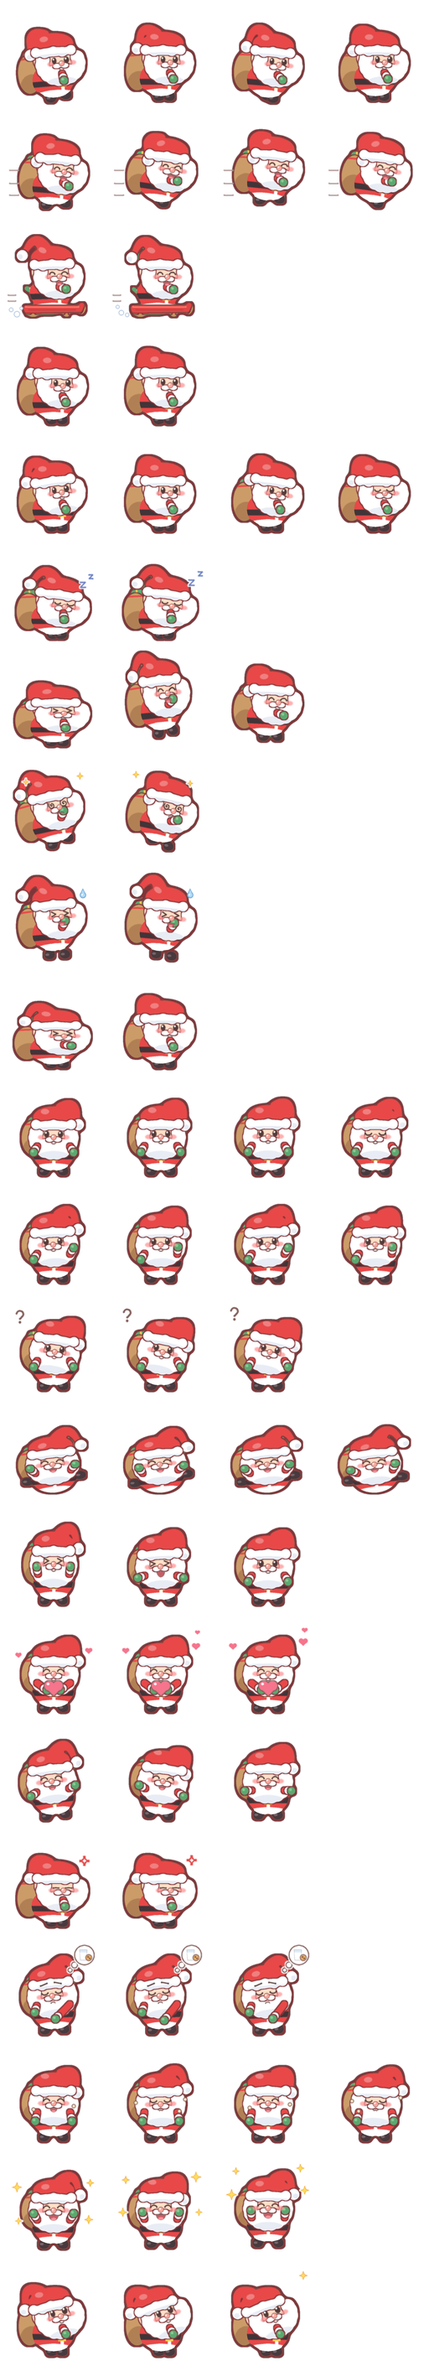
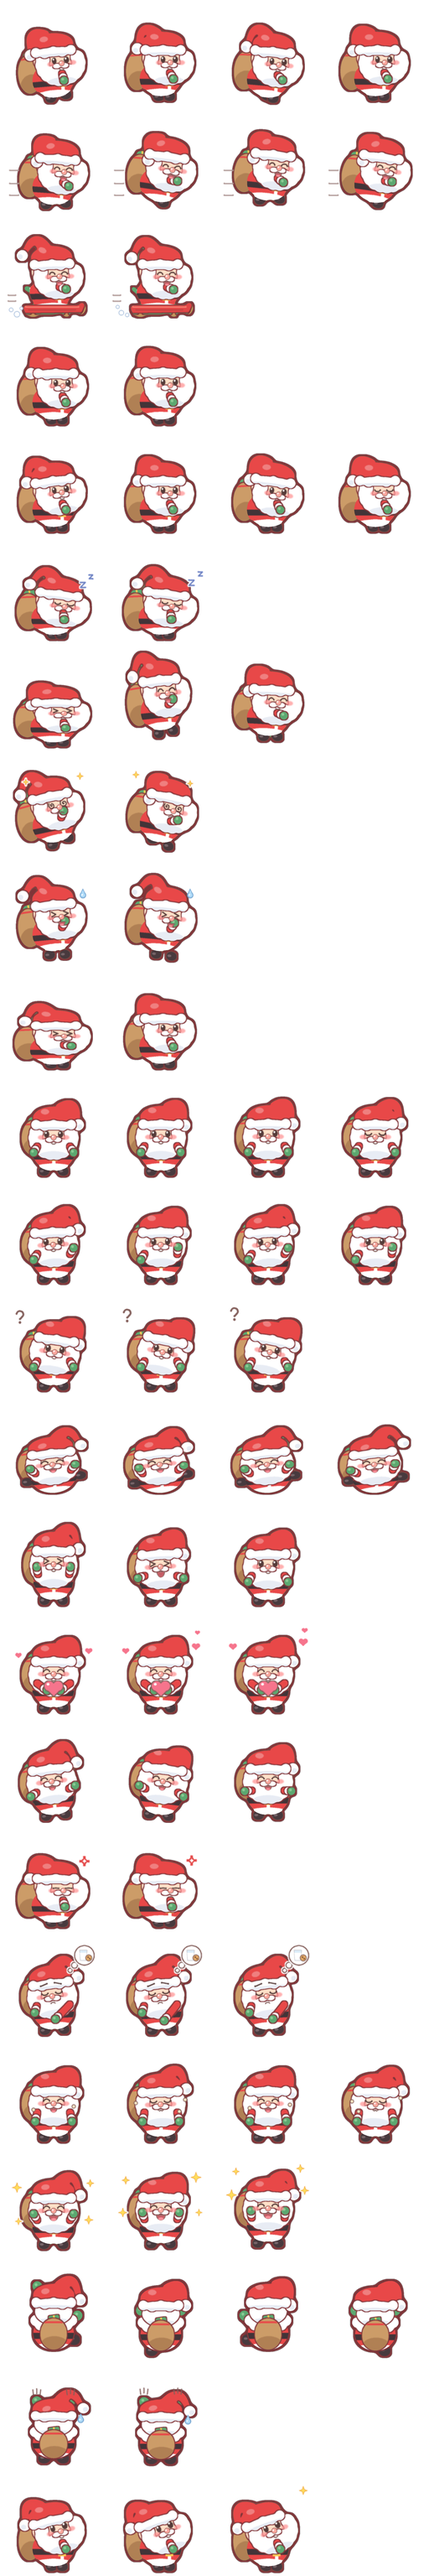
feat(art): Santa climbs walls like the cat — back view with sack, belt and pom-pom
Claude-Session: https://claude.ai/code/session_01QTKFeeLBUNBZhj6R6jJCZF

diff --git a/tools/draw_christmas.py b/tools/draw_christmas.py
@@ -12,6 +12,7 @@
 산타: 큰 머리 꼬마 산타 — 빨간 옷·모자(흰 방울), 복슬 흰 수염, 발그레 볼, 동글 배, 검은 허리띠 + 금 버클, 작은 장화.
       단계: 아기 = 모자 + 작은 수염 뭉치 (몸은 동글 빨간 콩) → 유아 장갑 → 어린이 허리띠 → 청소년 콧수염 + 버클 → 어른 큰 배 + 선물 자루.
       roll(구르기) 대신 썰매를 타고 미끄러진다 (옆모습, 방울·목도리 펄럭, 썰매 날 뒤로 눈가루) — pet.json roll에 spin이 없어 앱이 돌리지 않는다.
+      고양이처럼 벽을 탄다: 뒷모습 climb·slide (빨간 등·허리띠, 모자 + 방울, 수염 끝만 살짝, 어른은 등에 자루, 장화는 몸 뒤에서 번갈아 빼꼼).
 eat에는 밥그릇이 없다 (앱의 소품 창이 그릇을 띄운다).
 """
 
@@ -641,10 +642,79 @@ def sa_lookup(sp, i):
     return santa(sp, side=True, head_rot=dp.lookup_tilt(i), pom=-6, eyes="up", fx=dp.lookup_fx(i, 112, 14))
 
 
+# ---- 뒷모습 (벽 타기, 고양이처럼) — 다리는 몸 뒤, 장갑 끝만 머리 옆·위로 빼꼼. 보이는 건 빨간 등·허리띠·털 단, 모자 + 방울, 수염 끝 ----
+SA_BACK_FOOT = {"side": (1.02, 0.42), "low": (0.46, 1.02), "tuck": (0.32, 0.2)}  # 몸 (brx, bry) 기준 장화 자리: 옆으로 디딤 · 아래로 빼꼼 · 완전히 숨음
+
+
+def santa_back(reach, feet, *, sq=(1.0, 1.0), dy=0.0, pom=0.0, scratch=None, sweat=None):
+    """산타 뒷모습. reach: (왼, 오) 0 머리 옆 낮게 … 1 머리 위로 쭉 · feet: (왼, 오) SA_BACK_FOOT 키."""
+    st = _sa()
+    lvl = _ST["lvl"]
+    hr, brx, bry = st["hr"], st["brx"], st["bry"]
+    cx = 64.0
+    bottom = SA_FLOOR - 1 + dy
+    cy_b, hy = _layout(st, bottom)
+    parts, ops = [], []
+    with xf(sx=sq[0], sy=sq[1], pivot=(cx, bottom)):
+        for s_, at in zip((-1, 1), feet):  # 장화는 몸 뒤 — 몸 밖으로 나온 만큼만 보인다
+            ox, oy = SA_BACK_FOOT[at]
+            x, y = cx + s_ * brx * ox, cy_b + bry * oy
+            parts.append(dp.Part([E(x - 8, y - 7, x + 8, y + 7)], BOOT, [([E(x - 5, y - 3, x, y)], BOOT_LIGHT)], outline=True, grow=0))
+        for s_, r in zip((-1, 1), reach):  # 소매는 머리 뒤에 숨고 장갑 끝만 빼꼼
+            tx = cx + s_ * hr * (1.3 - 0.5 * r)
+            ty = hy + hr * (0.42 - 0.95 * r if r <= 0.62 else -0.17 - 2.7 * (r - 0.62))  # 머리 옆 낮게 → 모자 테 아래 → 모자 위로 쭉
+            parts.append(dp.Part([L([(cx + s_ * hr * 0.62, hy + hr * 0.5), (tx, ty)], 9.5)], SUIT, outline=True, grow=0))
+            parts.append(dp.Part([C(tx, ty, 6.6)], MITT if lvl else SKIN, [([C(tx - 1.6, ty - 1.8, 1.8)], MITT_LIGHT if lvl else WHITE)], outline=True, grow=0))
+            if scratch is not None:
+                for j, d in enumerate((-4, 0, 4)):
+                    y0 = ty - 9 - (j % 2) * 1.5 - scratch * 2
+                    ops.append(([L([(tx + d * 1.1, y0), (tx + d * 1.3, y0 - 7)], 1.5)], LINE, 1.0, 0, 0))
+        # 등: 빨간 옷 + 아래 흰 털 단 + 허리띠 (버클은 앞에 있어 안 보인다), 등솔기
+        marks = [([E(cx - brx * 1.3, cy_b + bry * 0.6, cx + brx * 1.3, cy_b + bry * 1.7)], FUR),
+                 ([E(cx - brx * 1.3, cy_b + bry * 1.05, cx + brx * 1.3, cy_b + bry * 1.7)], FUR_SHADE),
+                 ([E(cx + brx * 0.3, cy_b - bry * 0.7, cx + brx * 0.7, cy_b - bry * 0.35)], mix(SUIT, WHITE, 0.3))]
+        if lvl >= 1:
+            marks.append(([L([(cx, cy_b - bry), (cx, cy_b + bry * 0.62)], 1.6)], SUIT_SHADE))
+        if st["belt"]:
+            marks.append(([T((cx - brx * 1.1, cy_b + bry * 0.02), (cx + brx * 1.1, cy_b + bry * 0.02),
+                             (cx + brx * 1.1, cy_b + bry * 0.36), (cx - brx * 1.1, cy_b + bry * 0.36))], BELT))
+        parts.append(dp.Part([E(cx - brx, cy_b - bry, cx + brx, cy_b + bry)], SUIT, marks, outline=True, grow=0))
+        # 뒤통수: 볼 옆으로 수염 끝이 살짝, 그 위에 흰 머리칼 + 모자
+        k = st["beard"]
+        tips = [C(cx + s_ * hr * 0.9, hy + 0.42 * hr, hr * (0.14 + 0.1 * k)) for s_ in (-1, 1)]
+        tips += [C(cx + s_ * hr * 0.66, hy + 0.56 * hr + 2 * k, hr * (0.14 + 0.1 * k)) for s_ in (-1, 1)]
+        parts.append(dp.Part(tips, FUR, outline=True, grow=0))
+        nape = [E(cx - hr * 0.9, hy - hr * 0.6, cx + hr * 0.9, hy + hr * 0.6)]
+        parts.append(dp.Part(nape, FUR if lvl >= 1 else SKIN, [([E(cx - hr, hy + hr * 0.3, cx + hr, hy + hr * 0.8)], FUR_SHADE if lvl >= 1 else mix(SKIN, CHEEK_RED, 0.2))], outline=True, grow=0))
+        parts += _hat_parts(cx, hy, hr, False, pom, lvl)
+        if st["sack"]:  # 어른: 등에 멘 선물 자루 — 등 한가운데, 입구로 선물 상자가 빼꼼
+            sx0, sy0, sx1, sy1 = cx - 18, cy_b - bry * 0.82, cx + 18, cy_b + bry * 0.98
+            gift = dp.Part([T((cx - 7, sy0 - 3), (cx + 7, sy0 - 5), (cx + 8, sy0 + 7), (cx - 6, sy0 + 8))], GIFT,
+                           [([L([(cx, sy0 - 4), (cx + 1, sy0 + 8)], 2.2)], GIFT_RIBBON)], outline=True, grow=0)
+            bag = dp.Part([E(sx0, sy0, sx1, sy1)], SACK, [([E(sx0, (sy0 + sy1) / 2 + 3, sx1 + 2, sy1 + 6)], SACK_SHADE),
+                                                          ([L([(sx0 + 7, sy0 + 5), (sx1 - 7, sy0 + 5)], 2.6)], SACK_TIE)], outline=True, grow=0)
+            parts += [gift, bag]
+    fx = sweat_fx(cx + hr + 9, hy - 2 + sweat) if sweat is not None else []
+    return _finish(parts, (), ops, fx)
+
+
+def sa_climb(sp, i):
+    """화면을 기어오름: 장갑 번갈아 위로, 장화는 장갑과 엇갈려 아래로 빼꼼 → 옆으로 → 숨음, 모자 끝 살랑."""
+    reach = [(1.0, 0.25), (0.62, 0.62), (0.25, 1.0), (0.62, 0.62)][i]
+    feet = [("tuck", "side"), ("low", "tuck"), ("side", "tuck"), ("tuck", "low")][i]
+    return santa_back(reach, feet, sq=(1.0, [1.04, 1.0, 1.04, 1.0][i]), dy=[-1, 0, -1, 0][i], pom=[-8, 0, 8, 0][i])
+
+
+def sa_slide(sp, i):
+    """주르륵: 두 장갑 쭉 위로 + 긁힌 자국, 살짝 찌그러짐, 땀 한 방울, 모자 끝은 위로 펄럭."""
+    return santa_back((1.0, 1.0), ("low", "low"), sq=(1.03, 0.94), dy=[0, 1][i], pom=[-22, -16][i], scratch=i, sweat=i)
+
+
 SANTA_POSES = {"walk": sa_walk, "run": sa_run, "roll": sa_roll, "idle": sa_idle, "look": sa_look, "sleep": sa_sleep, "hop": sa_hop,
                "fall": sa_fall, "dragged": sa_dragged, "land": sa_land, "sit_front": sa_sit_front, "wave": sa_wave, "tilt": sa_tilt,
                "belly": sa_belly, "stretch": sa_stretch, "heart": sa_heart, "tickle": sa_tickle, "annoyed": sa_annoyed,
-               "hungry": sa_hungry, "eat": sa_eat, "level_up": sa_level_up, "lookup": sa_lookup}
+               "hungry": sa_hungry, "eat": sa_eat, "level_up": sa_level_up, "lookup": sa_lookup,
+               "climb": sa_climb, "slide": sa_slide}
 SANTA_POSES = {k: dh._fit(v) for k, v in SANTA_POSES.items()}
 
 SANTA = Species(
@@ -654,7 +724,7 @@ SANTA = Species(
     stage_tweak={"baby": dict(pale=0.0, sparkle=False, eye=1.0, fit=0.9), "kinder": dict(pale=0.0, sparkle=False, eye=0.95, fit=0.93),
                  "child": dict(smile=False, eye=0.92, fit=0.95), "teenager": dict(eye=0.9, fit=0.97),
                  "adult": dict(calm=False, eye=0.88, fit=0.93)},
-    **{k: v for k, v in dh._COMMON.items() if k != "poses"}, poses=SANTA_POSES,
+    **{k: v for k, v in dh._COMMON.items() if k not in ("poses", "specials")}, specials=["climb", "slide", "lookup"], poses=SANTA_POSES,
 )
 
 
@@ -673,6 +743,8 @@ def main():
     for sp in (RUDOLPH, SANTA):
         by_stage = dp.write_species(sp, root / "ui" / "pets" / sp.id)
         dh.preview_species(by_stage, pv / f"stages_{sp.id}.png")
+        if "climb" in sp.specials:
+            dp.preview_back(by_stage, pv / f"climb_{sp.id}.png")
     print("ok: rudolph, santa")
 
 

diff --git a/tools/test_draw_christmas.py b/tools/test_draw_christmas.py
@@ -1,5 +1,5 @@
 """크리스마스 시트 검사 (루돌프·산타): 크기·투명 여백·모든 동작·pet.json·eat에 밥그릇 없음·루돌프 코가 빨갛게 빛남·
-뿔이 단계마다 자람·산타는 썰매를 타고 roll에 spin이 없음."""
+뿔이 단계마다 자람·산타는 썰매를 타고 roll에 spin이 없음·산타는 고양이처럼 벽을 탄다 (뒷모습)."""
 import json
 
 import numpy as np
@@ -58,7 +58,7 @@ def test_both_are_registered_with_every_required_anim():
     for pid, poses in (("rudolph", draw_christmas.RUDOLPH_POSES), ("santa", draw_christmas.SANTA_POSES)):
         sp = draw_pets.SPECIES[pid]
         assert sp.poses is poses
-        assert names(pid) == [a for a, *_ in ANIMS] + ["lookup"]
+        assert names(pid) == [a for a, *_ in ANIMS] + {"rudolph": [], "santa": ["climb", "slide"]}[pid] + ["lookup"]
         assert all(a in poses for a in names(pid))
 
 
@@ -90,9 +90,11 @@ def test_manifests(out):
     assert sa["name"] == "산타" and sa["personality"] == "friendly" and "locomotion" not in sa and "hop_share" not in sa
     assert sa["favorite_food"] == {"emoji": "🥛", "name": "우유"} and sa["house"] == "xmas"
     assert sa["speech"]["chatter"] == ["ho ho ho!", "merry~"] and sa["speech"]["tickle"] == ["ho ho!"]
+    assert set(ru["animations"]) == {a for a, *_ in ANIMS} | {"lookup"}
+    assert set(sa["animations"]) == {a for a, *_ in ANIMS} | {"climb", "slide", "lookup"}
+    assert sa["animations"]["climb"] == {"row": len(ANIMS), "frames": 4, "fps": 6} and sa["animations"]["slide"] == {"row": len(ANIMS) + 1, "frames": 2, "fps": 8}
     for m in (ru, sa):
-        assert m["speech"]["hungry"] and m["speech"]["full"] and m["speech"]["level_up"]
-        assert set(m["animations"]) == {a for a, *_ in ANIMS} | {"lookup"} and m["stages"] == STAGES
+        assert m["speech"]["hungry"] and m["speech"]["full"] and m["speech"]["level_up"] and m["stages"] == STAGES
         assert m["animations"]["eat"] == {"row": 19, "frames": 4, "fps": 6, "front": True}
 
 
@@ -121,6 +123,38 @@ def test_eat_has_no_bowl(out, pid):
             bowlish = count(im, lambda r, g, b, a: (a > 200) & np.logical_or.reduce(
                 [np.abs(r - col[0]) + np.abs(g - col[1]) + np.abs(b - col[2]) <= 12 for col in BOWL_COLORS]))
             assert bowlish < 60, (st, c, bowlish)  # 그릇이면 수백 px — 루돌프 코 후광·산타 볼터치가 몇 px 섞인다
+
+
+def near(col, tol=24):
+    return lambda r, g, b, a: (a > 200) & (np.abs(r - col[0]) + np.abs(g - col[1]) + np.abs(b - col[2]) < tol)
+
+
+def test_santa_climbs_with_his_back_to_us(out):
+    """뒷모습: 빨간 등·모자 + 방울, 얼굴 없음 (눈·코·볼 없음), 벨트는 어린이부터, 자루는 어른만, 버클 없음."""
+    for st in STAGES:
+        for anim, n in (("climb", 4), ("slide", 2)):
+            for c in range(n):
+                im = frame(out, "santa", anim, c, st)
+                assert count(im, near(draw_christmas.SUIT)) >= 400, (st, anim, c)
+                assert count(im, near(draw_christmas.FUR, 10)) >= 200, (st, anim, c)
+                assert count(im, near((250, 166, 156), 16)) < 10, (st, anim, c)  # 앞모습 코가 없다 (코면 수십 px)
+                assert count(im.crop((0, 0, FRAME, 66)), near(draw_pets.EYE, 12)) < 30, (st, anim, c)  # 머리 쪽에 눈이 없다 (장화·허리띠는 아래, 눈이면 하나에 수십 px)
+                assert count(im, near(draw_christmas.BUCKLE, 30)) < 30, (st, anim, c)  # 버클 없음 (어른 자루의 선물 리본이 몇 px)
+                sack = count(im, near(draw_christmas.SACK, 16))
+                assert (sack >= 200) == (st == "adult"), (st, anim, c, sack)
+                belt = count(im, near(draw_christmas.BELT, 16))
+                assert (belt >= 60) == (st in ("child", "teenager", "adult")), (st, anim, c, belt)
+
+
+def test_santa_mitts_and_boots_take_turns_on_the_climb(out):
+    """장갑은 머리 옆·위로 번갈아, 장화는 번갈아 빼꼼 — 왼쪽과 오른쪽이 프레임마다 바뀐다."""
+    for st in STAGES:
+        frames = [frame(out, "santa", "climb", c, st) for c in range(4)]
+        assert len({f.tobytes() for f in frames}) >= 3, st
+        boot = near(draw_christmas.BOOT, 20)
+        low_left = [count(f.crop((0, 90, 64, FRAME)), boot) for f in frames]
+        low_right = [count(f.crop((64, 90, FRAME, FRAME)), boot) for f in frames]
+        assert low_left[2] > low_left[0] and low_right[0] > low_right[2], (st, low_left, low_right)
 
 
 def test_santa_mouth_sits_over_the_food(out):
